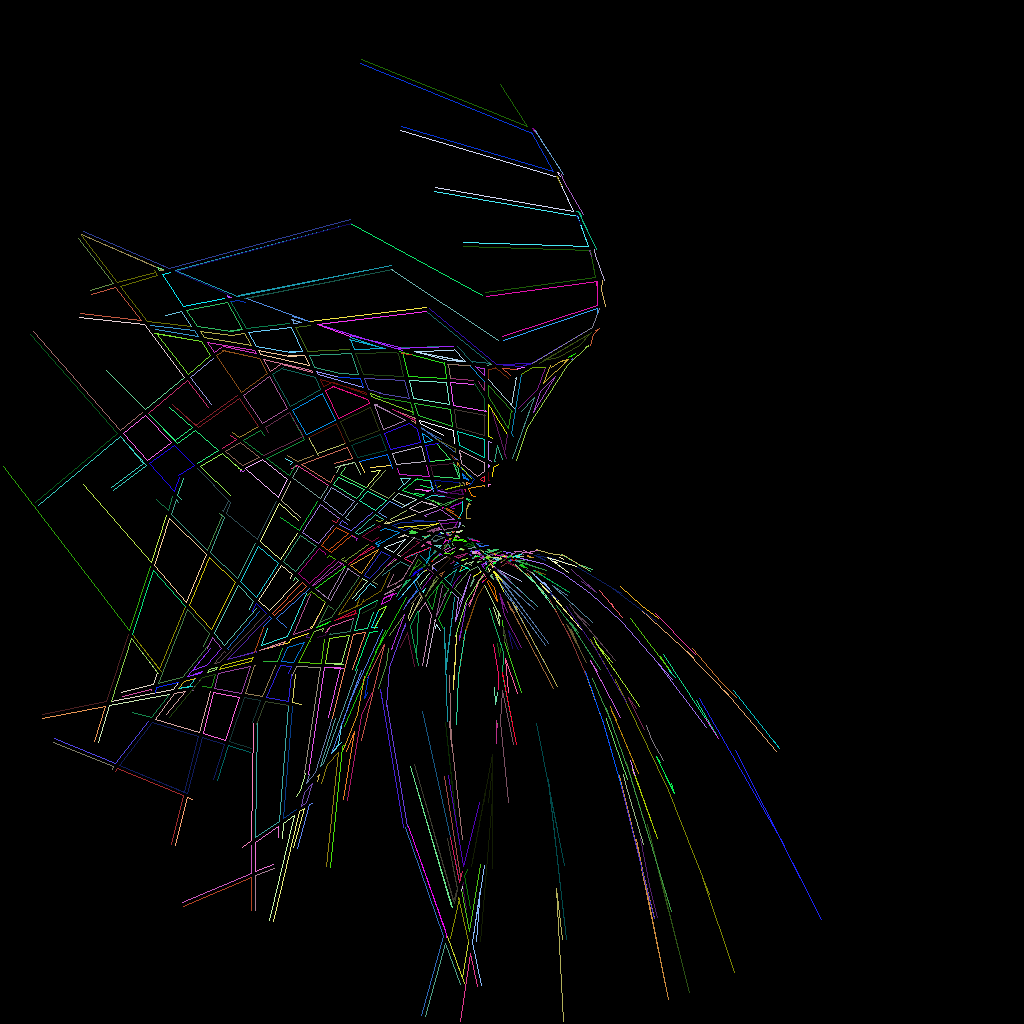
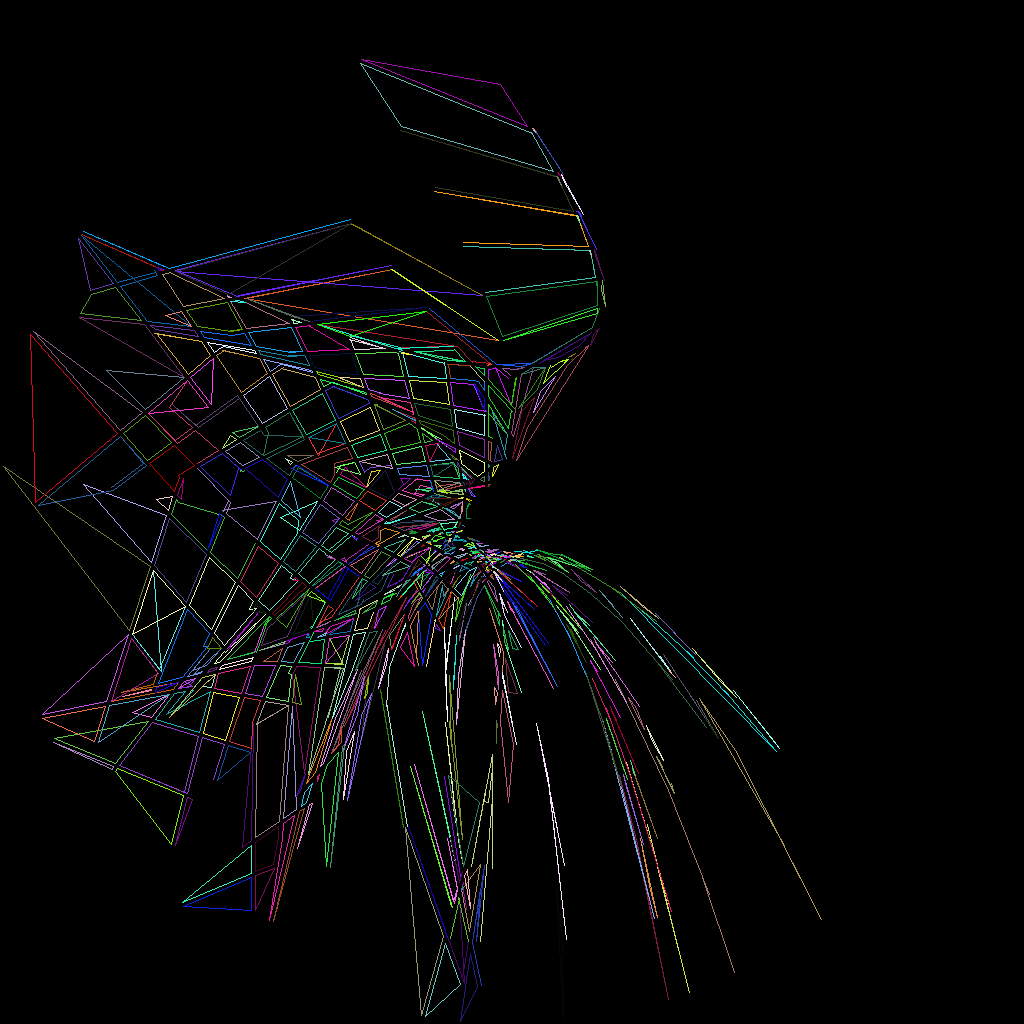
Closes lots. Building stuff still a bit funky

diff --git a/test/city_builder.test.js b/test/city_builder.test.js
@@ -5,7 +5,9 @@ const {CityBuilder,
        add_building,
        add_buildings,
        intersects,
-       distance_between } = require("../src/city_builder.js");
+       distance_between,
+       is_lot_open,
+       close_lot } = require("../src/city_builder.js");
 
 const two_streets = [
       {
@@ -1150,6 +1152,124 @@ it('deals with this one found in the wild', async() => {
 
 })
 
+it('closes an open lot', async() => {
+
+  let open_lot = [
+    {
+      "id": 22,
+      "street_id": 3,
+      "geometry": {
+        "start": {
+          "x": 10,
+          "y": 10
+        },
+        "end": {
+          "x": 200,
+          "y": 20
+        }
+      }
+    },
+    {
+      "id": 20,
+      "street_id": 2,
+      "geometry": {
+        "start": {
+          "x": 200,
+          "y": 20
+        },
+        "end": {
+          "x": 200,
+          "y": 200
+        }
+      }
+    },
+    {
+      "id": 11,
+      "street_id": 1,
+      "geometry": {
+        "start": {
+          "x": 200,
+          "y": 200
+        },
+        "end": {
+          "x": 50,
+          "y": 100
+        }
+      }
+    }
+  ]
+
+  let closed_lot = [
+    {
+      "id": 22,
+      "street_id": 3,
+      "geometry": {
+        "start": {
+          "x": 10,
+          "y": 10
+        },
+        "end": {
+          "x": 200,
+          "y": 20
+        }
+      }
+    },
+    {
+      "id": 20,
+      "street_id": 2,
+      "geometry": {
+        "start": {
+          "x": 200,
+          "y": 20
+        },
+        "end": {
+          "x": 200,
+          "y": 200
+        }
+      }
+    },
+    {
+      "id": 11,
+      "street_id": 1,
+      "geometry": {
+        "start": {
+          "x": 200,
+          "y": 200
+        },
+        "end": {
+          "x": 50,
+          "y": 100
+        }
+      }
+    },
+    {
+      "id": 12,
+      "street_id": 1,
+      "geometry": {
+        "start": {
+          "x": 50,
+          "y": 100
+        },
+        "end": {
+          "x": 10,
+          "y": 10
+        }
+      }
+    }
+  ]
+
+  const line = is_lot_open(open_lot)
+  open_lot.push(line)
+  await render_square(open_lot, 255, "closed_lot.png");
+  
+})
+
+it('deals with this wild one', async() => {
+
+  const lot_edges = [{"id":3773,"street_id":297,"geometry":{"start":{"x":596,"y":249},"end":{"x":582,"y":220}}},{"id":3767,"street_id":296,"geometry":{"start":{"x":582,"y":220},"end":{"x":580,"y":213}}},{"id":3774,"street_id":297,"geometry":{"start":{"x":596,"y":249},"end":{"x":578,"y":211}}},{"id":3645,"street_id":279,"geometry":{"start":{"x":579,"y":212},"end":{"x":576,"y":211}}},{"id":3644,"street_id":279,"geometry":{"start":{"x":579,"y":212},"end":{"x":578,"y":211}}}]
+  await render_square(lot_edges, 2000, "wild_too.png");
+
+})
 
 
 async function render_square(square, size, filename) {

diff --git a/src/city_builder.js b/src/city_builder.js
@@ -126,9 +126,6 @@ const inside_lot = function(line, lot, edge_index) {
     if (i !== edge_index) {
       // Don't try to test intersection with the edge
       // the line started at :-)
-      console.log('line:' + JSON.stringify(line))
-      console.log('edge:' + JSON.stringify(edge))
-      console.log('idx :' + i)
       const hit = intersect(line.geometry.start.x,
         line.geometry.start.y,
         line.geometry.end.x,
@@ -281,6 +278,50 @@ const intersects = function(shape, existing) {
 }
 
 exports.intersects = intersects
+
+const is_lot_open = function(lot_edges) {
+
+  // Get a list of all the start and end points
+  // If any don't appear twice
+  // Join them together
+
+  
+  let all_points = []
+  lot_edges.forEach((edge) => {
+    all_points.push(edge.geometry.start)
+    all_points.push(edge.geometry.end)
+  })
+
+  let unique_points = []
+  let dupes = []
+  all_points.forEach((point) => {
+    let exists = unique_points.find(existing_point => existing_point.x == point.x && existing_point.y == point.y)
+    if(exists == null) {
+      // First time we've seen this so add it to the list
+      unique_points.push(point)
+    } else {
+      // console.log('is a dupe')
+      dupes.push(point)
+    }
+  })
+
+  let new_line = []
+
+  all_points.forEach((point) => {
+    let is_a_dupe = dupes.find(dupe => dupe.x === point.x && dupe.y == point.y)
+    if (is_a_dupe == null) {
+      new_line.push(point)
+    }
+  })
+  if (new_line.length < 2) {
+    return
+  } else {
+    return {geometry: {start: {x: new_line[0].x, y: new_line[0].y},
+                       end:   {x: new_line[1].x, y: new_line[1].y}}}
+  }
+}
+
+exports.is_lot_open = is_lot_open
 
 exports.CityBuilder = class {
   constructor(seed, num_curves, scale) {

diff --git a/add_buildings.js b/add_buildings.js
@@ -1,10 +1,10 @@
-const { CityBuilder, add_buildings } = require("./src/city_builder")
+const { CityBuilder, add_buildings, is_lot_open } = require("./src/city_builder")
 
 // Make a Bezier City
 
 const seed = 1024
 const num_curves = 16
-const scale = 1
+const scale = 10
 
 const city_builder = new CityBuilder(seed, num_curves, scale);
 
@@ -16,9 +16,18 @@ city_builder.intersect_parallels();
 city_builder.split_streets();
 city_builder.add_lots();
 
+
 const building_size = 5;
 
 city_builder.lots.forEach(lot => {
+
+    const line = is_lot_open(lot.edges)
+
+    if (line !== undefined) {
+        console.log(line)
+        lot.edges.push(line)
+    }
+
     try {
         buildings = add_buildings(lot.edges, building_size)
         lot.buildings = buildings
@@ -31,13 +40,12 @@ city_builder.lots.forEach(lot => {
 const hp = require('harry-plotter');
 
 const filename = 'assets/buildings.png'
-var plotter = new hp.JimpPlotter(filename, 1024, 1024);
+var plotter = new hp.JimpPlotter(filename, 1024 * scale, 1024 * scale);
 const bresenham = require("bresenham");
 
 plotter.init(() => {
 
     city_builder.lots.forEach(lot => {
-        console.log(JSON.stringify(lot))
 
         let red = Math.floor(Math.random() * 255);
         let green = Math.floor(Math.random() * 255);
@@ -54,7 +62,6 @@ plotter.init(() => {
         });
 
         if (lot.buildings !== undefined) {
-            console.log(lot.buildings)
 
             lot.buildings.forEach(building => {
                 var points = bresenham(building.geometry.start.x,

diff --git a/make_lots.js b/make_lots.js
@@ -1,4 +1,4 @@
-const { CityBuilder } = require("./src/city_builder")
+const { CityBuilder, is_lot_open } = require("./src/city_builder")
 
 // Make a Bezier City
 
@@ -25,7 +25,12 @@ const bresenham = require("bresenham");
 plotter.init(() => {
 
     city_builder.lots.forEach(lot => {
-        console.log(JSON.stringify(lot))
+        const line = is_lot_open(lot.edges)
+
+        if (line !== undefined) {
+            console.log(line)
+            lot.edges.push(line)
+        }
 
         let red = Math.floor(Math.random() * 255);
         let green = Math.floor(Math.random() * 255);

diff --git a/README.md b/README.md
@@ -83,6 +83,13 @@ npm test -- -t 'adds buildings to the lot'
 I've put some error handling around the call to `add_buildings` so I can test the lots where this fails and 
 see what it is about these `in the wild` lots that causes my code to fail :-)
 
+There is something a bit _funky_ about the lot creation code I'm sure. But I'm inclined to leave this as it
+is. The way I see it, it's like a glitch in the city itself. Something which isn't quite right. Something
+which makes it interesting.
+
+That said I think it might be an idea to take any lots where the edges don't join together and add a closing
+edge to cover that off. I think that might make the buildings code run with more hits than misses too.
+
 # Copyright
 
 (C) Copyright 2023 Peckham Data Centre Ltd. All rights reserved.
